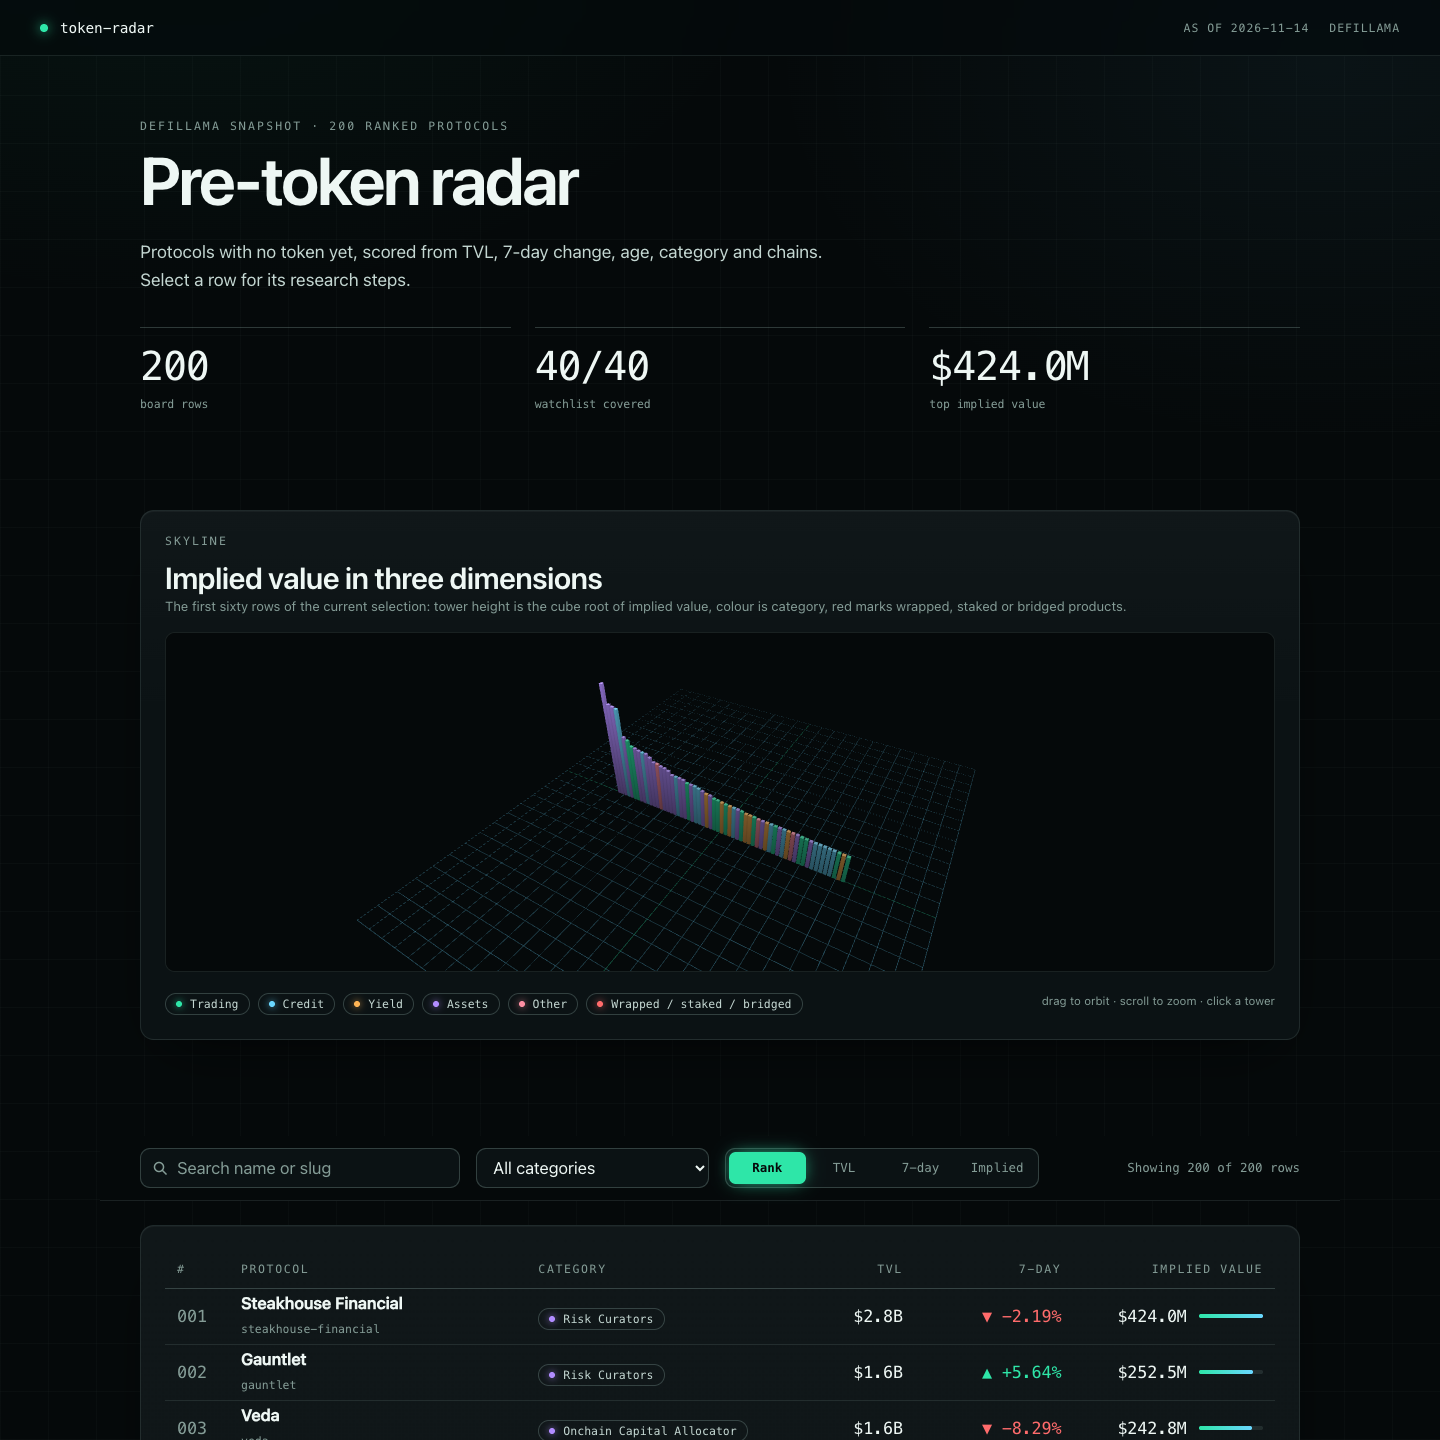
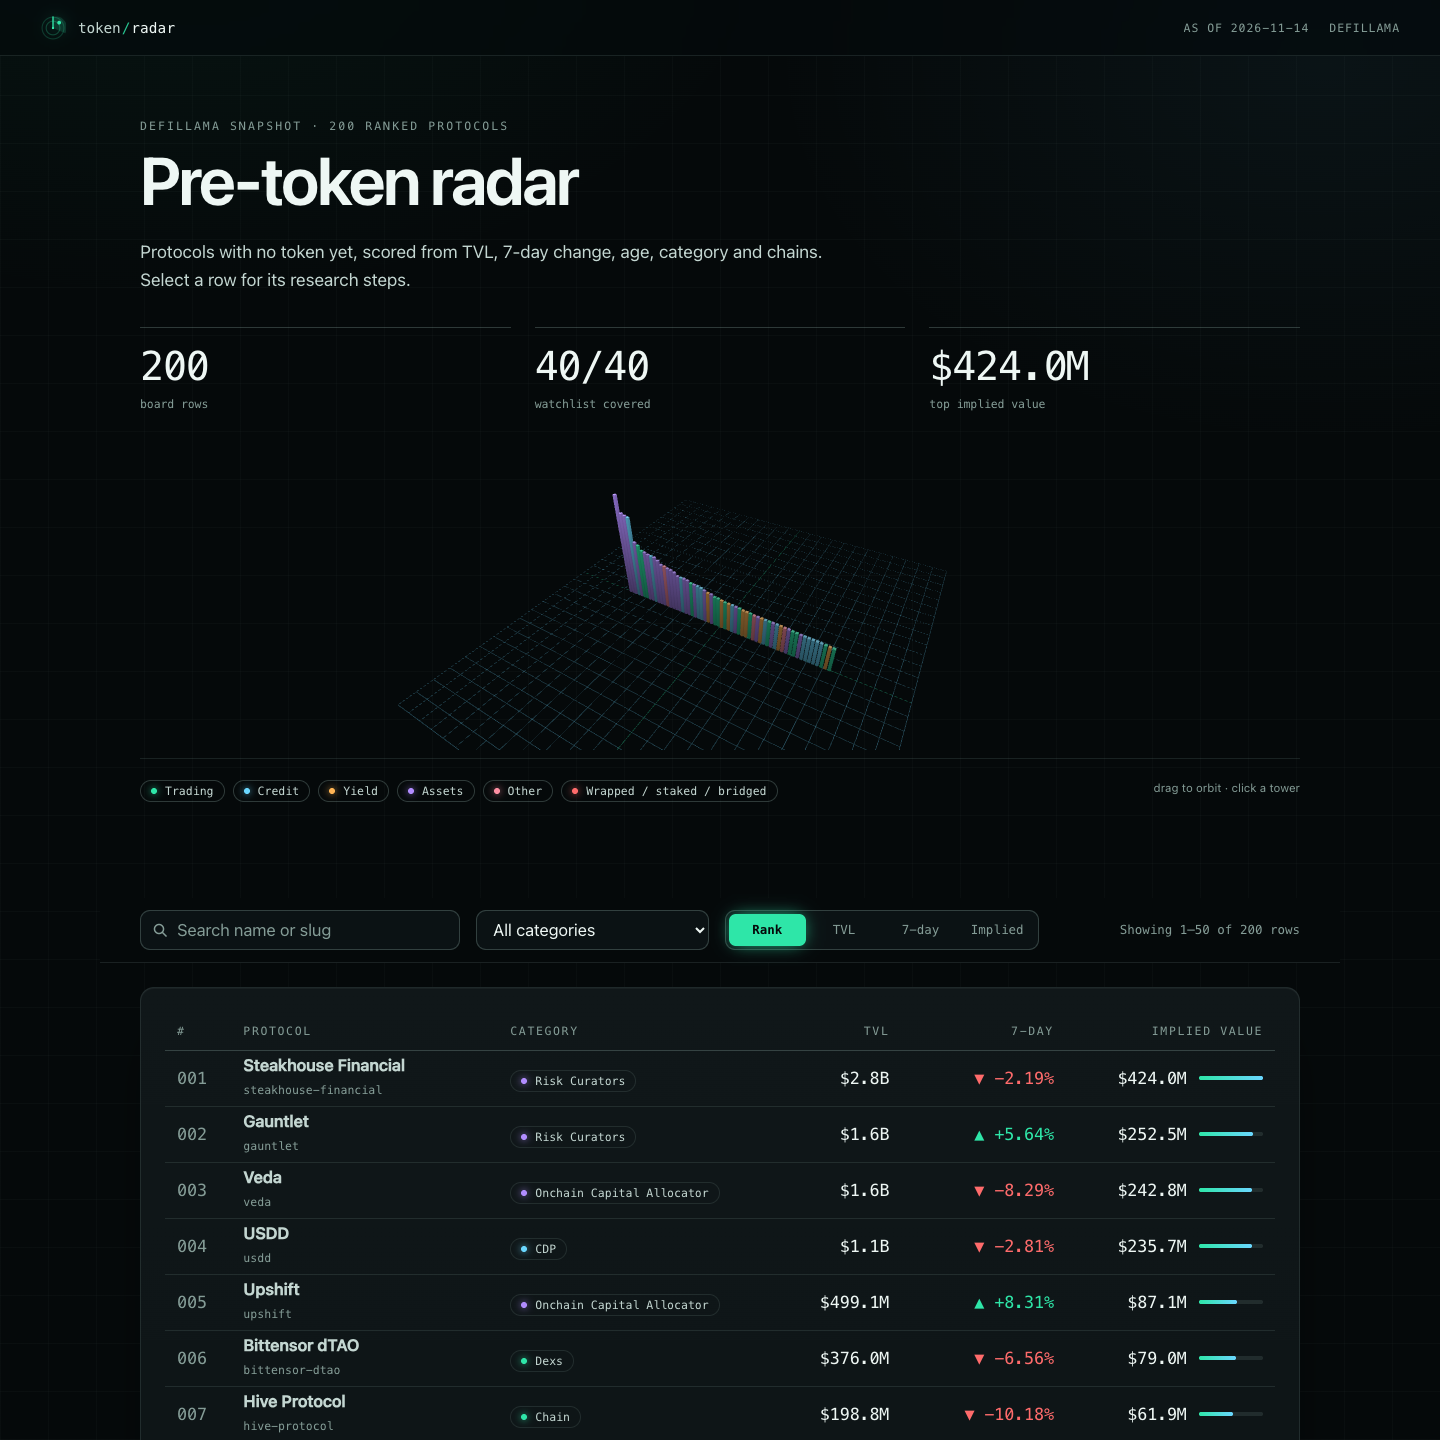
Add a radar-scope mark and a sharper page title, and give the skyline room on the page

diff --git a/dashboard/app.css b/dashboard/app.css
@@ -70,6 +70,13 @@ main:focus { outline: none; }
   border-bottom: 1px solid var(--line);
 }
 .brand { display: flex; align-items: center; gap: 12px; font: 500 .9rem var(--font-num); letter-spacing: -.01em; }
+.brand .logo { width: 26px; height: 26px; flex: none; color: var(--accent); filter: drop-shadow(0 0 7px rgba(46, 230, 168, .38)); transition: transform var(--t-base) var(--ease-out); }
+.brand:hover .logo { transform: rotate(-10deg) scale(1.05); }
+.brand .logo .blip { transform-origin: 23.6px 9.4px; animation: blip 3.2s ease-in-out infinite; }
+.brand .word { display: inline-flex; align-items: baseline; gap: 1px; }
+.brand .w1 { color: var(--ink-2); }
+.brand .sep { color: var(--accent); opacity: .85; }
+.brand .w2 { color: var(--ink); letter-spacing: .01em; }
 .dot { position: relative; width: 8px; height: 8px; border-radius: 50%; background: var(--accent); box-shadow: 0 0 12px var(--accent); }
 .dot::after {
   content: ""; position: absolute; inset: 0; border-radius: 50%; border: 1px solid var(--accent);
@@ -96,7 +103,8 @@ main:focus { outline: none; }
   border: 1px solid var(--line); border-radius: 14px; padding: 24px;
   box-shadow: 0 1px 0 rgba(255, 255, 255, .04) inset, 0 24px 60px -32px rgba(0, 0, 0, .9);
 }
-.scene-panel canvas { display: block; width: 100%; height: 340px; touch-action: none; }
+.section-scene { margin-top: 36px; }
+.scene-panel canvas { display: block; width: 100%; height: 300px; touch-action: none; }
 .scene-foot { display: flex; flex-wrap: wrap; justify-content: space-between; align-items: center; gap: 12px 24px; margin-top: 8px; padding-top: 16px; border-top: 1px solid var(--line); }
 .tip { position: fixed; left: 0; top: 0; z-index: 50; pointer-events: none; }
 .tip > div { display: grid; gap: 2px; padding: 8px 12px; background: var(--surface-2); border: 1px solid var(--line-2); border-radius: 8px; font: .78rem/1.4 var(--font-num); color: var(--ink-2); white-space: nowrap; opacity: 0; transform: translateY(4px); transition: opacity 90ms var(--ease-in), transform 90ms var(--ease-in); }
@@ -231,6 +239,7 @@ th.r, td.r { text-align: right; }
 
 @keyframes rise { from { opacity: 0; transform: translateY(8px); } to { opacity: 1; transform: none; } }
 @keyframes grow { from { width: 0; } to { width: var(--w); } }
+@keyframes blip { 0%, 100% { opacity: 1; } 55% { opacity: .35; } }
 @keyframes pulse { 0% { transform: scale(1); opacity: .9; } 70%, 100% { transform: scale(2.4); opacity: 0; } }
 @keyframes fade { from { opacity: 0; } to { opacity: 1; } }
 
@@ -250,6 +259,8 @@ th.r, td.r { text-align: right; }
   .hero > *, .first tbody tr { animation: fade var(--t-slow) var(--ease-soft) backwards; animation-delay: 0s; }
   .first .mbar i { animation: none; }
   .dot::after { animation: none; opacity: 0; }
+  .brand .logo .blip { animation: none; }
+  .brand:hover .logo { transform: none; }
   .detail { transform: none; }
   .board tbody tr:hover, .board tbody tr:focus-visible, .board tbody tr:hover .name, .board tbody tr:focus-visible .name,
   .board tbody tr:hover .mbar, .board tbody tr:focus-visible .mbar { transform: none; }

diff --git a/dashboard/app.js b/dashboard/app.js
@@ -324,10 +324,38 @@
       el('table', null, el('thead', null, el('tr', null, el('th', { scope: 'col', text: 'Category' }), el('th', { scope: 'col', class: 'r', text: 'Rows' }), el('th', { scope: 'col', class: 'r', text: 'Total implied' }))), body));
   }
 
+  // The mark: a radar scope with one blip. Built by hand so the page stays offline and the file
+  // carries no address; every stroke inherits currentColor from .logo.
+  function logoMark() {
+    var NS = 'http:' + '//www.w3.org/2000/svg';
+    var s = document.createElementNS(NS, 'svg');
+    s.setAttribute('viewBox', '0 0 32 32');
+    s.setAttribute('class', 'logo');
+    s.setAttribute('aria-hidden', 'true');
+    s.setAttribute('focusable', 'false');
+    function add(tag, attrs) {
+      var node = document.createElementNS(NS, tag);
+      Object.keys(attrs).forEach(function (k) { node.setAttribute(k, attrs[k]); });
+      s.appendChild(node);
+      return node;
+    }
+    add('circle', { cx: '16', cy: '16', r: '13.4', fill: 'none', stroke: 'currentColor', 'stroke-opacity': '.22', 'stroke-width': '1.2' });
+    add('circle', { cx: '16', cy: '16', r: '8.4', fill: 'none', stroke: 'currentColor', 'stroke-opacity': '.34', 'stroke-width': '1' });
+    add('path', { d: 'M16 16 L16 2.6 A13.4 13.4 0 0 1 31.2 22.4 Z', fill: 'currentColor', 'fill-opacity': '.16' });
+    add('path', { d: 'M16 16 L16 2.6', stroke: 'currentColor', 'stroke-width': '1.7', 'stroke-linecap': 'round' });
+    add('circle', { class: 'blip', cx: '23.6', cy: '9.4', r: '2.3', fill: 'currentColor' });
+    add('circle', { cx: '16', cy: '16', r: '1.4', fill: 'currentColor' });
+    return s;
+  }
+
   // Page assembly
   var bar = document.getElementById('bar');
   if (bar) {
-    bar.appendChild(el('div', { class: 'brand' }, el('span', { class: 'dot' }), el('span', { text: 'token-radar' })));
+    bar.appendChild(el('div', { class: 'brand' }, logoMark(),
+      el('span', { class: 'word' },
+        el('span', { class: 'w1', text: 'token' }),
+        el('span', { class: 'sep', text: '/' }),
+        el('span', { class: 'w2', text: 'radar' }))));
     bar.appendChild(el('div', { class: 'bar-meta' }, el('span', { text: 'as of ' + DATA.as_of }), el('span', { text: String(DATA.source).split(' ')[0] })));
   }
   var statNodes = [
@@ -342,7 +370,7 @@
     el('h1', { style: '--i:1', text: 'Pre-token radar' }),
     el('p', { class: 'deck', style: '--i:2', text: 'Protocols with no token yet, scored from TVL, 7-day change, age, category and chains. Select a row for its research steps.' }),
     stats));
-  root.appendChild(el('div', { class: 'section' }, scenePanel));
+  root.appendChild(el('div', { class: 'section section-scene' }, scenePanel));
   root.appendChild(el('div', { class: 'controls' }, searchBox, categorySelect, seg, countLine));
   root.appendChild(el('div', { class: 'panel board' }, tableWrap, pager));
   root.appendChild(el('div', { class: 'section' }, section('Chart', 'Implied value by rank', null, el('div', null, barSub, barMount))));

diff --git a/dashboard/index.html b/dashboard/index.html
@@ -5,7 +5,8 @@
 <meta name="viewport" content="width=device-width, initial-scale=1">
 <meta name="color-scheme" content="dark">
 <meta name="theme-color" content="#05090a">
-<title>Token Radar: pre-token protocols ranked by implied value</title>
+<meta name="description" content="Every protocol here has no token yet. Token Radar ranks them by an implied value built from TVL, growth, age and category, and shows the steps to farm each one.">
+<title>Token Radar — the pre-token protocols worth farming next</title>
 <link rel="stylesheet" href="app.css">
 </head>
 <body>
